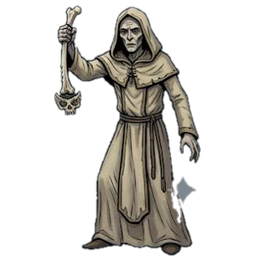
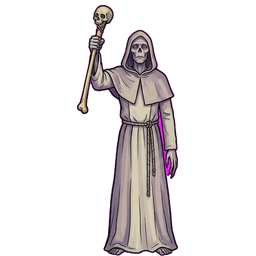
Repaint the Marrow-Priest, and name the mark it was carrying
Reported as the last sprite defect. Zoomed to 10x on magenta the grey diamond
on his hip sits ENTIRELY OUTSIDE his robe: it is the generator's four-point
watermark (D219) left in the field, opaque, rather than a hole in the art. No
detector here could see it — nothing is missing — and at 1:1 over a dark
corridor it reads as a smudge on the cloth.

install_cutouts has dropped these for free since despeckle existed; anything
installed before that kept its stamp and nothing had gone back to look. So
tools/drop_strays.gd does: opaque islands under 8% of the largest component,
reported per file, cleared by --fix.

It reports and does not decide, and the survey is why. Three islands across the
four installed sets and NONE is a watermark — a drip off the Deep Warden's
spear, a drop of water under the Drowned Thrall's arm, a mote on Bulwark. The
rule that would have caught the priest would have deleted designed detail from
three other files.

And it would not have caught the priest anyway: his diamond is bridged to the
sleeve by a two-pixel wisp, so it is one component with the figure. That limit
is written down rather than tuned around, and it is why he was repainted. The
replacement fills 98% of its canvas height, same as the plate it replaces, so
it draws at the same size.

Full suite: 44 pass; CardGridTest fails on another session's in-flight
card_grid.gd, untouched here.

Claude-Session: https://claude.ai/code/session_01Lkzfy1qc4KVZVU6AwniQFd

diff --git a/DESIGN.md b/DESIGN.md
@@ -208,6 +208,7 @@ Entries are not in numeric order in the file below; this is the way in.
 | **D217** | [Three of the four things the floor can offer you had no button](#d217--three-of-the-four-things-the-floor-can-offer-you-had-no-button) |
 | **D218** | [The half of the damage that was joined to the field, so nothing had ever looked for it](#d218--the-half-of-the-damage-that-was-joined-to-the-field-so-nothing-had-ever-looked-for-it) |
 | **D219** | [Six plates the restore could not save, and the generator that had been leaving scars](#d219--six-plates-the-restore-could-not-save-and-the-generator-that-had-been-leaving-scars) |
+| **D220** | [The mark on the Marrow-Priest was never a hole, and the tool that says so](#d220--the-mark-on-the-marrow-priest-was-never-a-hole-and-the-tool-that-says-so) |
 
 **D1–D34 are not in that table.** They were settled before the log grew
 sections and live as bullets under [§4 Design decisions](#4-design-decisions).
@@ -14344,3 +14345,44 @@ size, with nothing wrong in the picture and nothing to notice by eye. Re-asked a
 THAN IT IS WIDE, filling the frame top to bottom, limbs folded in close rather than
 sprawling sideways", it came back at 98%. **Measure the bounding box against the canvas
 after installing**; it is a one-line check and it is the only thing that catches this.
+
+### D220 — The mark on the Marrow-Priest was never a hole, and the tool that says so
+
+Reported as the last of the sprite defects and repainted on request. What it turned out to
+be is worth more than the repaint.
+
+**It was the watermark, left behind opaque.** Zoomed to 10x against magenta, the grey
+diamond on the priest's hip sits *entirely outside his robe* — it is the generator's
+four-point sparkle (D219) sitting in the FIELD, kept rather than cut. Every instrument this
+project has was blind to it and correctly so: it is not a hole, so `find_gouges` and
+`find_bites` have nothing to say, and on the dark corridor `combat.gd` draws it reads as a
+smudge on the robe. `tools/plate_check.gd` shows it plainly, and it still needed reading at
+10x to see that it was beside the arm rather than on it.
+
+**`install_cutouts` has dropped this for free since `despeckle` existed** — a run over the
+enemy set reports 1 to 31 "stray island(s)" a file and the stamp is among them. Anything
+installed BEFORE that pass kept its stamp, and nothing has ever gone back over the installed
+set to look. So `tools/drop_strays.gd` does: opaque components under 8% of the largest,
+reported per file, cleared by `--fix <family>/<id>`. Clearing is exact — the island is
+background that was never cut, so the subject is untouched.
+
+**A shortlist, not a verdict, and the survey is why.** Three islands across the four
+installed sets, and looking at them, **none was the watermark**: a drip off the Deep
+Warden's spear, a hanging drop of water under the Drowned Thrall's arm, a mote on Bulwark.
+All three are painted on purpose. The rule that would have caught the priest would have
+deleted a designed detail from three other files, which is the same trade `refill_pockets`
+records for the enclosed pockets — so this reports and does not decide, and there is no
+`--all`.
+
+**And it would not have caught the priest either.** His diamond is bridged to the sleeve by
+a two-pixel wisp of pale paint, so it is one component with the figure and no connectivity
+rule can separate them. That is the honest limit of the tool, written down rather than
+tuned around: it finds the stamps that float, and a stamp that touches the subject is a
+repaint. The priest was repainted.
+
+**On repainting rather than erasing.** The replacement fills 98% of its canvas height
+against the old plate's 98%, so it draws at the same size (D219's aspect check), and it sits
+correctly beside Marrow-Abbot, Pale Acolyte and Rot-Priest — flatter in the shading than the
+plate it replaces, which is the cost of a fresh chat with no reference attached. Worth it
+here because the alternative was a hand-placed eraser box, and a coordinate in a tool is a
+number nobody can check later.

diff --git a/AGENTS.md b/AGENTS.md
@@ -854,6 +854,13 @@ These are failure modes that have actually bitten this project. Treat each as a 
   direction: **judge at the size the defect is visible, which is not always the size the
   thing is drawn.**
 
+  **And not every mark on a sprite is a hole (D220).** The one on the Marrow-Priest was the
+  generator's watermark left OPAQUE in the field beside his arm — no detector that looks for
+  missing alpha can see it, and at 1:1 over a dark corridor it reads as a smudge on the
+  robe. It took 10x on magenta to tell "beside the arm" from "on the arm", and those are
+  different defects with different fixes. Ask what a mark IS before reaching for the repair
+  that matches what it looks like.
+
   **And a list of STATES rots the same way a list of screens does (D217).** Every iso
   capture photographs a floor being *walked*, and a walk never stops at an offer — so the
   row of buttons that carries push, answer, break-away and the stone had never been in a
@@ -1280,6 +1287,10 @@ tools/       diagnostics, not shipped: sim_balance.gd, playthrough.gd, debug_map
              since combat draws them over a dark corridor where one reads as
              shadow; pair with refill_pockets.gd, which restores the ones that
              still carry paint — D218),
+             drop_strays.gd (the other half: opaque islands the matte KEPT,
+             which are the generator's watermark on anything installed before
+             despeckle existed. Reports, never decides — the three it finds
+             across the installed sets are all painted drips — D220),
              art_manifest.gd (driven by art_docs.sh — see the doc list below),
              art_docs.sh, design_index.sh and readme_downloads.sh (the three
              documentation generators; all take `--check`, which is how you find
